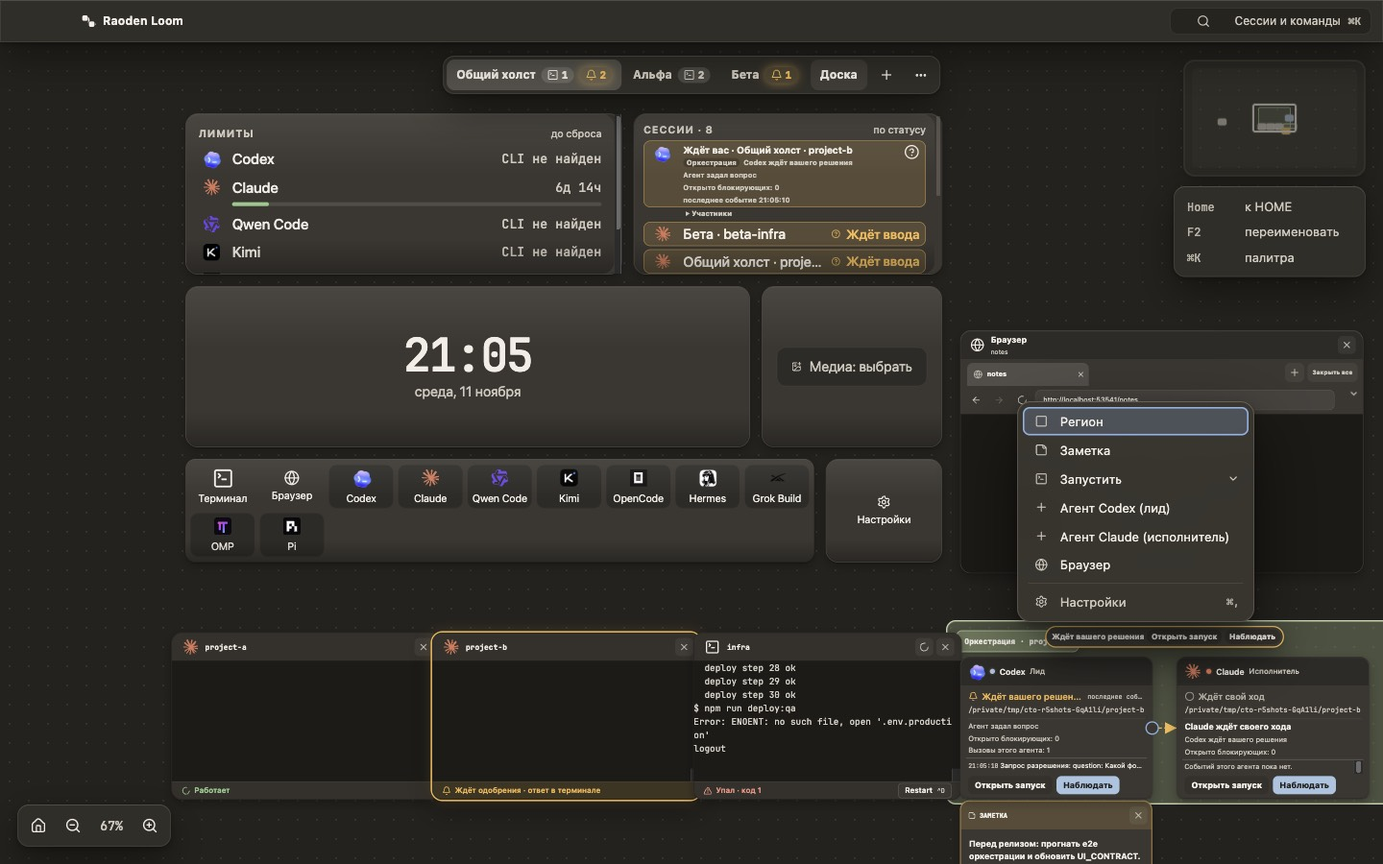
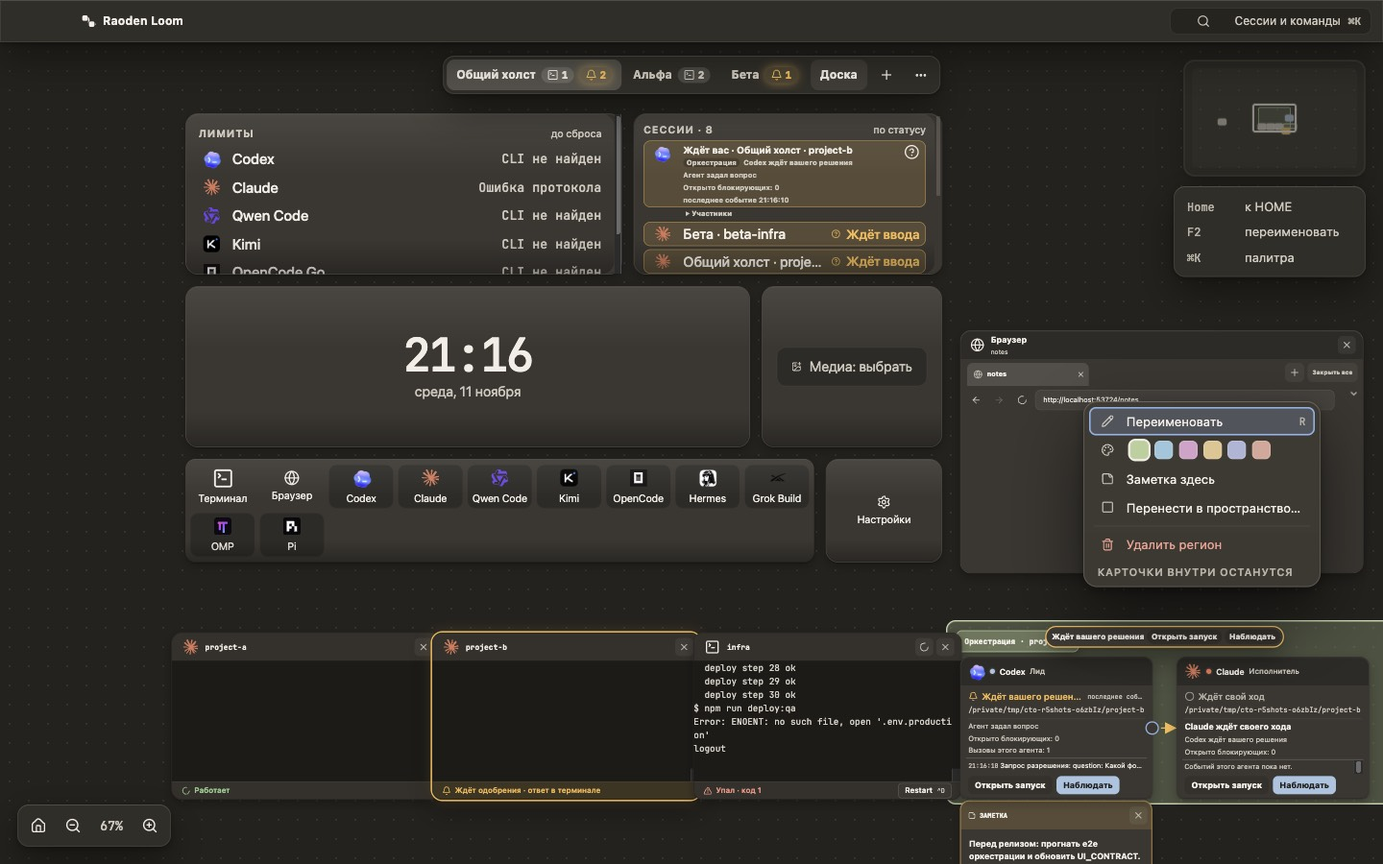
docs(redesign): R6-C pairs and verdicts for the board, project settings, workspaces and canvas bits

diff --git a/docs/ux-audit/2026-11-10/conformance-2/other.md b/docs/ux-audit/2026-11-10/conformance-2/other.md
@@ -81,14 +81,14 @@ D-016 разрешает не менять сетку 16×12 и минимум 1
 
 1. **М1. Путь в шапке терминала пропадает после переименования** — `06-terminal-{sand,paper}`. Доделать: `features/terminal/TerminalCard.tsx:528-530` — при `titleCustomized` показывать имя и рядом `compactPath(session.cwd)` моно, как в макете 06 (O-20).
 2. **М2. Пауза «Ждёт вас» у агента нарисована как обычная пауза** — `06-agent-working-sand`. Подпись «Ждёт вас: …» идёт из `viewPauseLabel`, а состояние карточки `paused` (глиф паузы, без жёлтой рамки и свечения D-007). Доделать: `features/orchestration/runModel.ts:144-145` — состояние `needs_you`, если пауза требует человека (`pauseText(...).you`), тогда сработают `lib/cardStatus.ts:17` и `styles/app.css:1138`.
-3. **М3. Задача доски на паузе — зелёный спиннер «На паузе»** — `08-board-sand`. Доделать: `features/orchestration/BoardCard.tsx:244` — тон по состоянию запуска (пауза человека → `waiting` с колокольчиком, иначе глиф паузы), а не по колонке `work`.
+3. **М3. Задача доски на паузе — зелёный спиннер «На паузе»** — `08-board-sand`. Доделать: `features/orchestration/BoardCard.tsx:244` — тон по состоянию запуска (пауза человека → `waiting` с колокольчиком, иначе глиф паузы), а не по колонке `work`. **После R6 (R6-C):** сделано: тон карточки задачи берётся и из состояния запуска (`BoardCard.tsx:244`): пауза в «Работе» — колокольчик и жёлтый тон «Ждёт вас», зелёный спиннер остаётся только у идущего запуска. Кадры `08-board-sand` (теперь «Claude выполняет этап 1» зелёным, фикстура дана нормальным планом) и `08-board-states-sand` (T-3 «Ждёт разрешения» и T-1 «На паузе» с колокольчиком). Не совпадает с макетом: у «Проверки» нет «Ждёт вашего решения» с кнопкой «Открыть решение» и подписью «проверки 3/3 · ревью: условие спорное» (нужен запуск с решением человека — фикстуры нет), строка «Итог доски: задач пока нет / Начать новый итог доски» осталась.
 4. **М4. Тело карточки агента перегружено** — `03-canvas-*`, `06-agent-working-sand`. В макете 06 три строки (статус, путь, последнее событие) и «Открыть запуск» только у упавшей; в приложении ещё задача, «Открыто блокирующих: 0», «Вызовы этого агента: 1 · токенов…», кнопки «Открыть запуск» и «Наблюдать» у каждой. Предложение: убрать счётчики из тела (`features/orchestration/AgentCard.tsx:136-150`), кнопки оставить записью D-NNN (единственный вход в запуск и наблюдение с карточки) или перенести в меню карточки.
 5. **М5. Поповер запуска агента обрезается шапкой окна** — `14-yolo-sand`, `14-launch-paper`. При раскрытой YOLO-плашке карточка, привязанная низом к кнопке дока, уходит выше окна: имя и × не видны. Доделать: `components/Dialog.tsx:19-21` — `maxHeight` до верха рабочей области с прокруткой тела, либо прижимать к верхней границе.
-6. **М6. Настройки проекта: перенос сегмента прав и textarea вместо строк** — `15-projsettings-{sand,paper}`. Доделать: `features/orchestration/ProjectSettings.tsx:172` — сегмент Claude без `--wrap` с короткими подписями (5 режимов — D-023, но в одну строку); `:180` — «Подробнее» и абзац убрать по D-026 или перенести в `title`; `:214`, `:231` — команды подготовки и проверки строками с × и «+ Команда», как в диалоге цели (D-025).
+6. **М6. Настройки проекта: перенос сегмента прав и textarea вместо строк** — `15-projsettings-{sand,paper}`. Доделать: `features/orchestration/ProjectSettings.tsx:172` — сегмент Claude без `--wrap` с короткими подписями (5 режимов — D-023, но в одну строку); `:180` — «Подробнее» и абзац убрать по D-026 или перенести в `title`; `:214`, `:231` — команды подготовки и проверки строками с × и «+ Команда», как в диалоге цели (D-025). **После R6 (R6-C):** сделано: сегмент прав в одну строку с короткими подписями «Терминал / Рабочая папка / Правки / Авто / Полный», полное имя и что передаётся CLI — в `title` кнопки; «Подробнее» и абзац про «Рабочую папку» убраны; команды подготовки и проверки — строки с «×» и «+ Команда» (`GoalRows` из диалога цели, те же `goalLines`/`pasteIntoRows`), подсказки сведены к строке под заголовком карточки и одной строке о риске («Выполняются вашей оболочкой…»); «Среда уже подготовлена»/«Подготовка выполнит: …» — одной строкой с полным списком в `title`. Кадры `15-projsettings-{sand,paper}`. Осталось: подписи «Claude · исполн.» в макете, лишний воздух под правами Codex (карточка растянута до высоты «Моделей ролей»), метки полей «Модели ролей» над списками, а не в строке; нижние карточки (Push, Выгрузка ревью, MCP и окружение) ниже кадра, не сверены.
 7. **М7. Строка запуска в «Сессиях» HOME развёрнута на 7 строк мелкого текста** — `05-home-sand`. В макете 05 строка 30px: марка, имя, статус тройкой. Доделать: `features/home/HomeZone.tsx:745-765` — строка «project-b · Ждёт вас», остальное (`activity-run__extra`, время, «Участники») в подсказку или поповер наведения (как поповер упавшей сессии в макете).
 8. **М8. Док HOME в два ряда** — `05-home-sand`, `03-canvas-*`. 11 кнопок в плитке 10×2 переносятся (OMP и Pi вторым рядом); в макете один ряд, не найденные CLI убираются настройкой «В доке HOME». Доделать вместе с С2 (ширина дока) и/или по умолчанию не ставить в док не найденные CLI (O-04 частично).
-9. **М9. Диалог «Скрыть пространство»** — `17-hide-sand`, `17-workspaces-paper`. Список запусков и терминалов с «Открыть» и кнопки в две строки. Доделать: `features/workspaces/WorkspaceUi.tsx:350-380` — абзац «2 запуска и 3 терминала продолжат работу…», подписи кнопок «Остановить всё и скрыть…» / «Скрыть», заголовок с «?»; если список нужен — D-NNN.
-10. **М10. Кадры не в состоянии макета (D-026 требует)**: первый запуск с 0 CLI; терминал «выбрана»; агент «Работает · этап 1 из 2» и «Упал на этапе» (вместо них пауза «отчёт не прочитан»); браузер с 3 вкладками и бейджем агента; доска с «Ждёт вашего решения», ошибкой и чипом внешней задачи; тосты «ждёт/упал/завершён» с действием (нет крючка `__r5Toast`), баннер, радиальное меню; регион «Оркестрация · project-b» на холсте 03; поповер упавшей сессии HOME; пространства «Скрытые», «Удалить», «Перенести карточку», «Браузер открыт в…», ошибка имени; макет 18 (снимок документа, связывание, изменение HOME, ресайз, фокус); макет 19 (одна высота, исполнитель левее, изгиб, зум 0.2). Доделать: сцены и фикстуры в `scripts/shots-r5.mjs` (сценарий claude-исполнителя на доске не держит «Работает»: отчёт не проходит проверку — `script("claude", …)` в начале файла; сцена `overlay-region-menu` снимает раньше, чем открывается меню).
+9. **М9. Диалог «Скрыть пространство»** — `17-hide-sand`, `17-workspaces-paper`. Список запусков и терминалов с «Открыть» и кнопки в две строки. Доделать: `features/workspaces/WorkspaceUi.tsx:350-380` — абзац «2 запуска и 3 терминала продолжат работу…», подписи кнопок «Остановить всё и скрыть…» / «Скрыть», заголовок с «?»; если список нужен — D-NNN. **После R6 (R6-C):** сделано: заголовок «Скрыть «…»?», абзац с «Вернуть пространство — из «Скрытых»», главные кнопки «Остановить и скрыть» и «Скрыть» в одну строку (полные «Скрыть, работа продолжится / остальные продолжат работу» — в `title`), список работающих запусков и терминалов остаётся по D-029. Кадр `17-hide-sand`. Осталось: в макете «Остановить всё и скрыть…» ведёт на отдельный список остановки, в приложении кнопка останавливает сразу, а список с «Открыть» — тот же диалог (вопрос в отчёте R6-C).
+10. **М10. Кадры не в состоянии макета (D-026 требует)**: первый запуск с 0 CLI; терминал «выбрана»; агент «Работает · этап 1 из 2» и «Упал на этапе» (вместо них пауза «отчёт не прочитан»); браузер с 3 вкладками и бейджем агента; доска с «Ждёт вашего решения», ошибкой и чипом внешней задачи; тосты «ждёт/упал/завершён» с действием (нет крючка `__r5Toast`), баннер, радиальное меню; регион «Оркестрация · project-b» на холсте 03; поповер упавшей сессии HOME; пространства «Скрытые», «Удалить», «Перенести карточку», «Браузер открыт в…», ошибка имени; макет 18 (снимок документа, связывание, изменение HOME, ресайз, фокус); макет 19 (одна высота, исполнитель левее, изгиб, зум 0.2). Доделать: сцены и фикстуры в `scripts/shots-r5.mjs` (сценарий claude-исполнителя на доске не держит «Работает»: отчёт не проходит проверку — `script("claude", …)` в начале файла; сцена `overlay-region-menu` снимает раньше, чем открывается меню). **После R6 (R6-C):** часть закрыта сценами `scripts/shots-r5.mjs` (прогон sand+paper целиком, `failed.txt` пуст): первый запуск с 0 CLI (`04-firstrun-*`: «Найдено 0 из 9», «Как установить»); агент «Работает · этап» (`06-agent-working-sand`, план из двух этапов, исполнитель держится); доска с «Ждёт разрешения», внешней задачей, паузой (`08-board-states-sand`); тосты «ждёт / упал / завершён» с действием (`10-toast-sand`, через dev-крючок событием `canvastty:toast` в `App.tsx`, инертен без флага драйвера) и баннер (`10-banner-sand`, существующий механизм: флаг «уведомления недоступны» + окно без фокуса); радиальное меню (`10-radial-sand`); регион «Оркестрация · project-b» на холсте (`03-canvas-*`) и его меню (`18-region-menu-sand`, сцена ждёт меню); поповер упавшей сессии HOME (кадр `home-failed-popover`, без пары: в макетах поповера нет); пространства «Скрытые», «Перенести карточку», «Браузер открыт в…», ошибка имени (`17-hidden/move/browser/nametaken-sand`); 18: заметка-снимок (`18-note-snapshot-sand`), режим связывания (`18-linkmode-sand`), изменить HOME (`18-home-edit-sand`), выделенная карточка (`18-resize-sand`); 19: исполнитель левее лида (`19-executor-left-sand`), зум (`19-zoom-sand`), повторная пара (`19-repeat-sand`). Не сделано: «Упал на этапе» — карточка агента «Упал» бывает только при статусе запуска `failed`, а он в приложении возникает лишь у запуска слияния доски при внутренней ошибке; упавший CLI (код 1) ведёт запуск в паузу «Ждёт вас: отчёт агента не удалось прочитать», фейк другого не даёт; ошибка доски «В option поле summary…» (нужен профиль с push-опциями и remote); «Ждёт вашего решения» в «Проверке»; тосты и баннер «2 запуска ждут вас» с «Показать» — текст баннера другой («Общий холст · project-b Ждёт вас: агент просит разрешения.» с «Открыть»); ручки ресайза и бирка «520 × 300» (появляются при наведении на край — кадр показывает выбранную карточку без ручек), фокус клавиатуры (Tab), изгиб связи и одна высота с чипом «Работает · этап 1» (чип в кадре `06-agent-working-sand` — «Выполняется · 2 запусков · 2/2»), зум 0.2 (минимум приложения 28%).
 
 ## Мелкие
 
@@ -130,3 +130,35 @@ D-016 разрешает не менять сетку 16×12 и минимум 1
 ## Как снято
 
 `node scripts/shots-r5.mjs --out <scratchpad>/shots --themes sand,paper` (4 мин 40 с) и `--themes frost` отдельно; пары собраны `sips` (вырезка, JPEG). Временные каталоги скрипта (`cto-r5shots-*`, `r5-term-*`) удалены им самим, процессов не осталось.
+
+
+## После R6 (часть R6-C): доска, настройки проекта, пространства, сцены
+
+Ветка r6c (от feat/r6-conformance), сборка out/ от 2026-11-11, кадры `scripts/shots-r5.mjs --themes sand,paper` (все сцены, `failed.txt` пуст), пары пересобраны `sips` (JPEG 1440, q70); макеты 10, 17, 18, 19 вырезаны из листов `redesign/preview/`. На кадрах нет имени пользователя и домашних путей (пути `/private/tmp/cto-r5shots-*`; кадр поповера упавшей сессии с именем пользователя в выводе оболочки в пары не вошёл).
+
+| макет / экран | пара | вердикт после R6 | что осталось |
+|---|---|---|---|
+| 15 настройки проекта, sand/paper | 15-projsettings-{sand,paper} | мелкое (было среднее) | сегмент прав в одну строку, команды строками с «×» и «+ Команда», «Подробнее» нет; остались: пустой воздух под Codex, подписи «Claude · исполн.», нижние карточки не в кадре |
+| 17 скрыть | 17-hide-sand | мелкое (было среднее) | заголовок с «?», кнопки в одну строку; список запусков и терминалов — D-029; макетное «Остановить всё и скрыть…» ведёт на экран остановки |
+| 17 скрытые | 17-hidden-sand | мелкое | список без чипа «1 работает» и без второй строки; текст подсказки совпадает |
+| 17 перенести карточку | 17-move-sand | среднее | вместо списка пространств с числом карточек и «+ Новое пространство…» — выпадающий список «Куда»; кнопка «Перенести» без имени пространства |
+| 17 браузер открыт в… | 17-browser-sand | мелкое | название пространства в заголовке и текст — как в макете; кнопка «Перейти» вместо «Перейти в «…»» (имя в `title`) |
+| 17 ошибка имени | 17-nametaken-sand | мелкое | текст ошибки и красная рамка как в макете; в диалоге «Новое пространство» нет «Метки»-цветов, есть «Основная папка» («/») — D-020 |
+| 08 доска | 08-board-sand | среднее | задача «Работает» зелёная, «Итог доски» остался |
+| 08 доска, состояния | 08-board-states-sand | среднее | «Ждёт разрешения» и «На паузе» жёлтые с колокольчиком, «внешняя» чипом, «Выполнено»; нет «Ждёт вашего решения» и карточки с ошибкой push; в шапке нет чипа «ждёт вас», в ленте автопилота нет «ждёт: …» |
+| 06 агент «Работает» | 06-agent-working-sand | среднее | исполнитель держится, строка «Работает…» обрезается на карточке 300×222 («Работа…» + «последнее событие …» в той же строке), тело перегружено (М4) |
+| 10 тосты | 10-toast-sand | совпадает по составу | три тоста с действием: ждёт / упал / завершён, колокольчик, ошибка, галочка; заголовки и кнопки как в макете |
+| 10 баннер | 10-banner-sand | среднее | баннер внизу по центру, в макете сверху холста; текст «Общий холст · project-b Ждёт вас: …» и «Открыть», в макете «2 запуска ждут вас в пространствах Бета и Альфа» и «Показать» |
+| 10 радиальное меню | 10-radial-sand | сильное (новое) | в макете 6 пунктов кольцом вокруг «отпустить»; в приложении все 9 пунктов запуска, часть налезает на HOME, подписи мелкие |
+| 18 меню региона | 18-region-menu-sand | мелкое | цвета 6 вместо 5, «Перенести в пространство…» лишний, сноска капсом |
+| 18 заметка-снимок | 18-note-snapshot-sand | мелкое | «Копия на 11.11.2026, 20:29 · Открыть актуальный» есть; шапка «ЗАМЕТКА» капсом, мелкий жирный текст, в макете заголовок «Итог запуска …» крупно |
+| 18 изменить HOME | 18-home-edit-sand | мелкое | сетка, границы «16 × 12», маркеры плиток есть; нет плашки «Черновик · плитка «Медиа» выходит за границу», панель «Редактор HOME / Сбросить / Сохранить» поверх вкладок пространств |
+| 18 ресайз / выбрана | 18-resize-sand | не сравнить | выбранная карточка с синим контуром; ручек по краям и бирки «520 × 300» нет (появляются при наведении, кадр наведения не сработал) |
+| 18 связывание | 18-linkmode-sand | среднее | линия от порта тянется, цель подсвечена жёлтым портом; «Отпустите — связать» и тусклая карточка другой папки с подсказкой «Другая папка проекта» не видны |
+| 19 исполнитель левее | 19-executor-left-sand | мелкое | кривая огибает карточки, как в макете; чипа «Нужно разрешение» нет (связь без запуска) |
+| 19 зум | 19-zoom-sand | мелкое | 28% вместо 20%, чипы связей не сворачиваются в точку (связь на HOME-кадре без запуска у видимых карточек) |
+| 19 повторная пара | 19-repeat-sand | совпадает | по D-013 |
+| 03 холст | 03-canvas-{sand,paper} | сильное | регион «Оркестрация · project-b» на холсте теперь есть (под ним плашка связи налезает на заголовок региона); остальное — раскладка HOME (R6-B) |
+| 04 первый запуск | 04-firstrun-{sand,paper} | мелкое | «Найдено 0 из 9», «Как установить», кнопка «Проверить снова» — как в макете; ширина карточки и «Command + колесо» — D-016 |
+
+Проверено сравнением пар (Read, по одной): 15 (sand и paper), 17 (все пять), 08 (две), 10 (три), 18 (пять), 19 (три), 04, 03, 06-agent-working. Пары `06-terminal`, `05-home`, `14-*`, `16-*`, `11-*`, `09-*` в R6-C не пересняты (экраны R6-A и R6-B).
